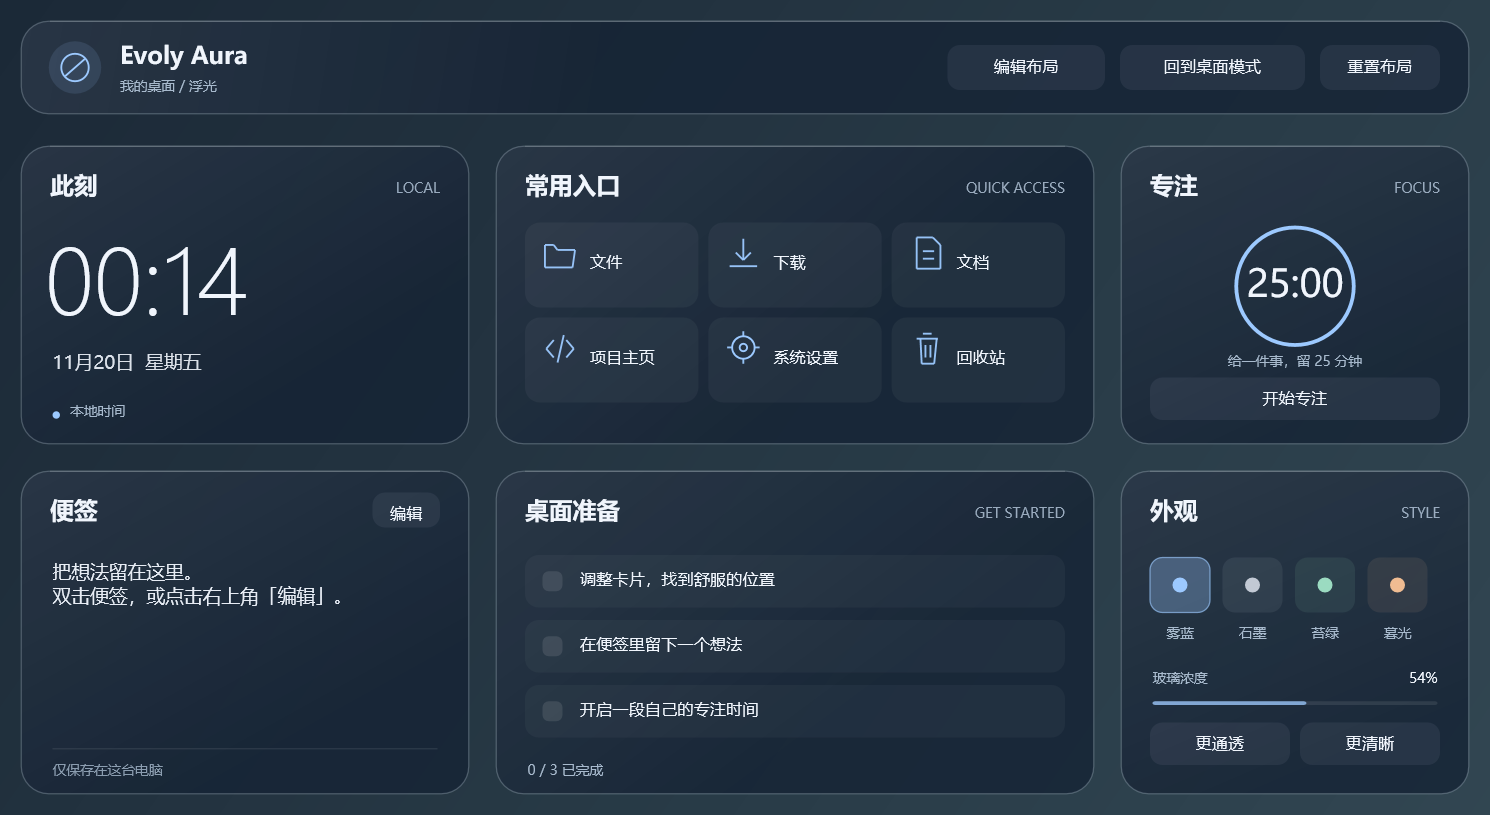
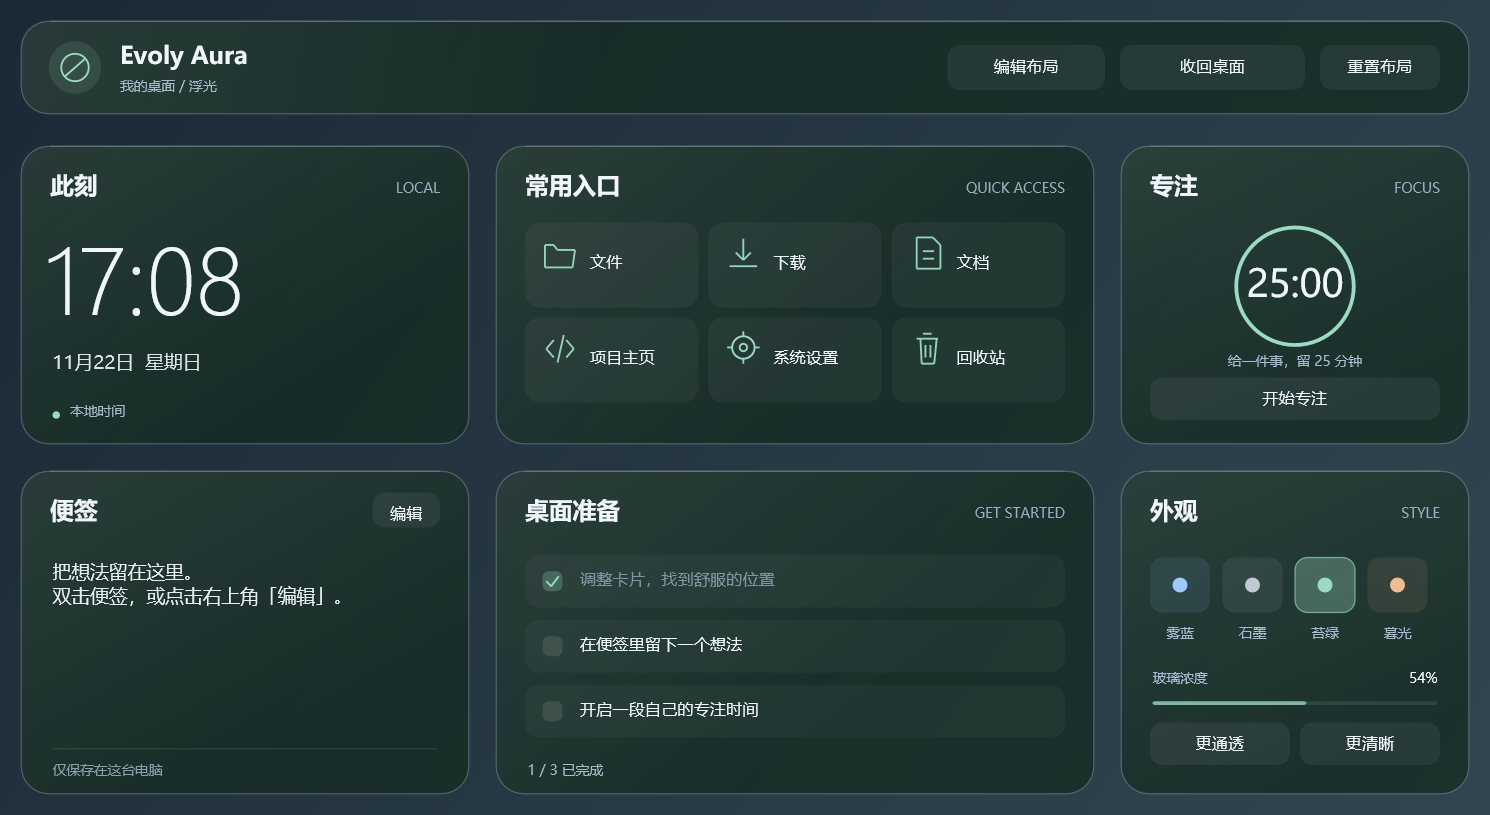
fix: unify reveal return and hide actions across desktop controls

diff --git a/src/platform/windows/desktop_app.cpp b/src/platform/windows/desktop_app.cpp
@@ -181,7 +181,7 @@ public:
     }
     void Show(bool show) {
         visible=show;
-        if (!show) { temporaryReveal=false; revealActivated=false; }
+        if (!show) { ++revealGeneration; temporaryReveal=false; revealActivated=false; revealQueued=false; }
         if (show) EnsurePanels();
         if (show && !panels.empty()) renderer->LoadBackground(panels.front().window);
         if (show) SetMode();
@@ -221,10 +221,10 @@ public:
     void QueueReveal() {
         // Leave the Shell callback before activating/reparenting windows. A tray
         // selection always reveals; opening its overflow can already deactivate us.
-        if (!revealQueued) revealQueued=PostMessageW(controller,revealMessage,0,0)!=FALSE;
+        if (!revealQueued) revealQueued=PostMessageW(controller,revealMessage,++revealGeneration,0)!=FALSE;
     }
     void ReturnToDesktop() {
-        if (!temporaryReveal) return;
+        if (!temporaryReveal || !visible) return;
         temporaryReveal=false; Show(true); Log("reveal_returned_to_desktop");
     }
     void ToggleVisibility() {
@@ -232,6 +232,7 @@ public:
         else Reveal();
     }
     void ChangeMode(bool wantDesktop) {
+        ++revealGeneration; revealQueued=false; revealActivated=false;
         desktop=wantDesktop; editing=false; temporaryReveal=false;
         Show(true);
         if (!wantDesktop) RaiseFloating();
@@ -276,8 +277,8 @@ public:
     void Action(WidgetAction action) {
         switch (action) {
         case WidgetAction::editLayout: SetEditing(!editing); break;
-        case WidgetAction::toggleMode:
-            ChangeMode(!OnDesktop()); break;
+        case WidgetAction::sendToDesktop:
+            ChangeMode(true); break;
         case WidgetAction::resetLayout: Reset(); break;
         case WidgetAction::editNote: EditNote(); break;
         case WidgetAction::focus:
@@ -312,12 +313,12 @@ public:
     void Menu(HWND owner) {
         HMENU menu=CreatePopupMenu();
         AppendMenuW(menu,MF_STRING|(editing?MF_CHECKED:0),104,L"编辑布局");
-        AppendMenuW(menu,MF_STRING,desktop?103:102,desktop?L"切为悬浮模式":L"回到桌面模式");
+        AppendMenuW(menu,MF_STRING|((OnDesktop() && visible && !editing)?MF_GRAYED:0),102,L"收回桌面（保留卡片）");
         if (auto* panel=Panel(owner); panel && panel->placement.kind!=WidgetKind::toolbar)
             AppendMenuW(menu,MF_STRING|(panel->placement.pinned?MF_CHECKED:0),108,L"单独置顶此卡片");
         AppendMenuW(menu,MF_STRING,105,L"重置布局");
         AppendMenuW(menu,MF_STRING,100,L"唤起卡片");
-        if (visible) AppendMenuW(menu,MF_STRING,101,L"隐藏卡片");
+        AppendMenuW(menu,MF_STRING|(visible?0:MF_GRAYED),101,L"隐藏卡片");
         AppendMenuW(menu,MF_SEPARATOR,0,nullptr);
         AppendMenuW(menu,MF_STRING,107,L"退出 Evoly Aura");
         menuOpen=true;
@@ -415,7 +416,8 @@ public:
                 return 0;
             }
             case revealMessage:
-                revealQueued=false; Reveal(); return 0;
+                if (wp==revealGeneration) { revealQueued=false; Reveal(); }
+                return 0;
             case controlMessage:
                 if (wp==100) Reveal();
                 else if (wp==101) Show(false);
@@ -436,7 +438,7 @@ public:
                 return 0;
             case WM_HOTKEY:
                 if (wp==1) ToggleVisibility();
-                else if (wp==2) Action(WidgetAction::toggleMode);
+                else if (wp==2) Action(WidgetAction::sendToDesktop);
                 else if (wp==3) { Save(); PostQuitMessage(0); }
                 else if (wp==4) SetEditing(!editing);
                 return 0;

diff --git a/src/render/workspace_renderer.cpp b/src/render/workspace_renderer.cpp
@@ -123,7 +123,7 @@ void Renderer::DrawWidget(ID2D1RenderTarget* target, HWND window, const WidgetVi
         text(L"Evoly Aura",3,D2D1::RectF(80,16,280,42));
         text(view.editing?L"拖动标题区，右下角调整大小":view.temporaryReveal?L"临时唤起 · Esc 回到桌面":L"我的桌面 / 浮光",0,D2D1::RectF(80,46,450,64),muted);
         button(WidgetAction::editLayout,view.editing?L"完成编辑":L"编辑布局",view.editing);
-        button(WidgetAction::toggleMode,view.desktop?L"切为悬浮模式":L"回到桌面模式");
+        button(WidgetAction::sendToDesktop,L"收回桌面");
         button(WidgetAction::resetLayout,L"重置布局");
         break;
     case WidgetKind::clock: {

diff --git a/include/aura/workspace.h b/include/aura/workspace.h
@@ -9,7 +9,7 @@ enum class WidgetKind { toolbar, clock, launcher, focus, notes, checklist, appea
 enum class WindowLayer { desktop, floating, topmost };
 WindowLayer ResolveWindowLayer(bool desktopRequested, bool hostAvailable, bool editing, bool pinned);
 enum class WidgetAction {
-    none, editLayout, toggleMode, resetLayout, editNote, focus,
+    none, editLayout, sendToDesktop, resetLayout, editNote, focus,
     launchExplorer, launchDownloads, launchDocuments, launchGithub, launchSettings, launchRecycle,
     task0, task1, task2, theme0, theme1, theme2, theme3, clearer, frostier
 };

diff --git a/src/core/workspace.cpp b/src/core/workspace.cpp
@@ -25,7 +25,7 @@ std::vector<ActionArea> WidgetActions(WidgetKind kind, float w, float h) {
     switch (kind) {
     case WidgetKind::toolbar:
         return {{WidgetAction::editLayout,{w-418,20,126,36}},
-                {WidgetAction::toggleMode,{w-280,20,148,36}},
+                {WidgetAction::sendToDesktop,{w-280,20,148,36}},
                 {WidgetAction::resetLayout,{w-120,20,96,36}}};
     case WidgetKind::launcher: {
         std::vector<ActionArea> out;

diff --git a/README.md b/README.md
@@ -16,8 +16,9 @@
 双击 [Start-Aura.cmd](Start-Aura.cmd)，默认驻留桌面，不覆盖普通应用；缺少产物时先构建。
 托盘单击始终唤起卡片；右键「隐藏卡片」可收起。Ctrl+Alt+F10 切换显示/隐藏，切换到其他应用或按 Esc 后回到桌面。
 普通悬浮不永久置顶；只有主动置顶的单卡与编辑布局时的卡片保持最前。
+「收回桌面」让卡片留在桌面、让出应用前台；「隐藏卡片」则完全收起。两者都能再由托盘唤起。
 当前可操作：七块玻璃卡片、编辑/锁定、拖动/吸附/缩放、便签编辑与保存、
-专注计时、四套强调色与玻璃浓度、桌面/悬浮切换、布局重启恢复。
+专注计时、四套强调色与玻璃浓度、唤起/收回桌面/隐藏、布局重启恢复。
 
 详细用法见 [桌面框架说明](docs/development/DESKTOP_WORKSPACE.md)，
 阶段范围见 [效果框架计划](docs/plans/VISUAL_FRAMEWORK.md)。

diff --git a/docs/plans/VISUAL_FRAMEWORK.md b/docs/plans/VISUAL_FRAMEWORK.md
@@ -30,7 +30,8 @@
 双击根目录 Start-Aura.cmd 启动桌面卡片。
 默认启动已于 2026-11-20 调整为桌面驻留，避免遮挡应用；显式 -Preview 才进入普通悬浮。
 托盘或 Ctrl+Alt+F10 可临时唤起，Esc/切换应用后回到桌面。
-快捷键：Ctrl+Alt+F9 编辑；F10 显示/隐藏；F11 桌面/悬浮；F12 退出。
+2026-11-22：普通界面统一为唤起、收回桌面、隐藏三个动作；移除容易混淆的持久模式切换入口。
+快捷键：Ctrl+Alt+F9 编辑；F10 显示/隐藏；F11 收回桌面；F12 退出。
 
 使用 [桌面框架说明](../development/DESKTOP_WORKSPACE.md) 了解实现范围。
 当前重点是框架与交互；不把它描述为完整文件整理产品或发布版本。

diff --git a/docs/testing/VALIDATION.md b/docs/testing/VALIDATION.md
@@ -8,6 +8,7 @@
 
 `Test-WindowLayers.ps1` 的托盘回调是合成消息；真实通知区由 `Test-RealTray.ps1` 单独验证，不能相互替代。
 真实托盘检查菜单隐藏、切换应用、重复单击、通知区转应用和 Win+D 后再次唤起，每次断言七张卡片均可实际命中。
+另验证三轮「收回桌面 → 隐藏 → 唤起」真实菜单，以及工具条收回后的隐藏/唤起；不以合成命令替代这些入口。
 
 Test-Workspace.ps1 检查七窗口、真实拖动/缩放、主题、专注、中文便签、桌面/HUD、
 隐藏/恢复、重复启动及重启持久化。Capture-Workspace.ps1 检查实际原生界面截图。

diff --git a/docs/development/DELIVERY_STATUS.md b/docs/development/DELIVERY_STATUS.md
@@ -1,6 +1,13 @@
 # 交付与远端状态
 
-更新日期：2026-11-20
+更新日期：2026-11-22
+
+## 显示操作收敛
+
+- 普通菜单与工具条统一为「唤起卡片 / 收回桌面 / 隐藏卡片」；不再根据默认模式显示相反的切换项。
+- 收回桌面仍保留卡片，隐藏完全收起；Ctrl+Alt+F11 收回桌面。
+- 隐藏或主动收回会使旧的排队唤起失效，隐藏时不接受自动回桌面恢复显示。
+- 真实托盘测试增加三轮收回后隐藏/唤起及实际工具条按钮路径；保留原有五类场景。
 
 ## 窗口层级与唤起修复
 

diff --git a/CHANGELOG.md b/CHANGELOG.md
@@ -2,6 +2,12 @@
 
 ## Unreleased
 
+### 2026-11-22
+
+- 将普通界面的模式切换改为单向「收回桌面（保留卡片）」，与唤起、隐藏明确区分；工具条与 Ctrl+Alt+F11 同步调整。
+- 隐藏与收回使旧排队唤起失效，防止过期显示请求干扰新状态。
+- 真实托盘回归补充「收回 → 隐藏 → 唤起」三轮及实际工具条按钮路径。
+
 ### 2026-11-20
 
 - 修复通知区菜单与自动返回桌面交错执行，导致隐藏/再次唤起状态失效的问题。
